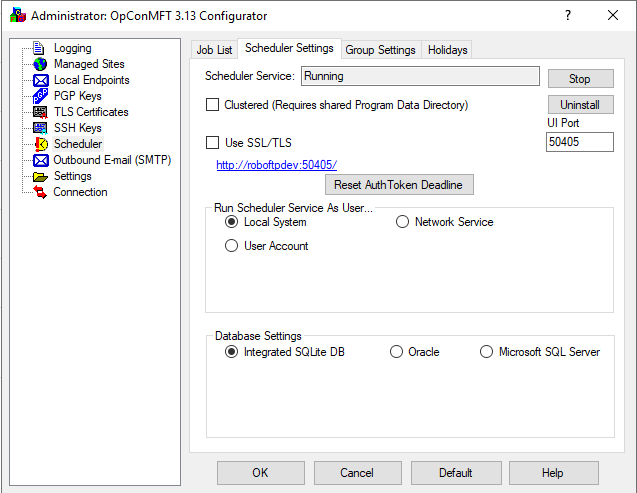
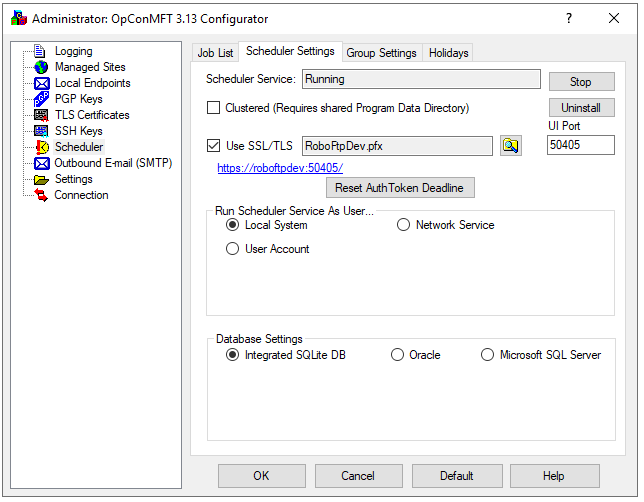
doc updates

Changed region(s): [[0.0, 0.0, 1.0, 1.0]]

diff --git a/docs/Installation.md b/docs/Installation.md
@@ -1,4 +1,10 @@
 # Installation
+
+>***Before starting an installation, an updated OpCon License key including an OpConMFT Agent type must be obtained. Failure to do this will result in a license 
+Violation when the defined OpCon MFT agent is activated in opCon and will result in OpCon termination if the activated OpConMFT Agent is not deactivated within
+the specified time.***
+
+
 The OpCon MFT environment consists of an OpCon MFT Agent and the SMAMftAgentProxy that provides the communication link between OpCon and the OpCon MFT Agent.
 
 The SMAMftAgentProxy is contained within the SMANetCom environment and is installed automatically when the core SMA OpCon component is installed. 
@@ -8,9 +14,13 @@ one to one relationship between an OpCon environment and an OpCon MFT Agent is d
 Part of the configuration process is to retrieve the token value from the OpCon MFT Agent and store this in the OpCon agent record. 
 
 ## OpCon MFT Agent Installation
-The agent installation consists of executing the installer program and answering a single license acceptance message.
-After the installation, a system restart is required.
+The OpCon MFT Agent software can be downloaded using the OpCon Web Installer. It is listed as SMA OpConMFT under the Agents section. The software currently
+only has a download option. Once down loaded, the installer can be started manually outside the OpCon Web Installer.
 
+The agent installation consists of executing the installer program and answering a single license acceptance message.
+After the installation, if a system restart is required, restart the system.
+
+### Retrieve the OpCon MFT Agent Port Number
 After the restart, the port number for communication with OpCon that was automatically configured during the installation process must be retrieved from the OpCon MFT Agent.
 
 Select the **OpConMFT n.nn** menu item and then the **OpConMFT n.nn Configurator** menu item.
@@ -19,14 +29,38 @@ This opens the Configurator Software.
 
 Select the **Scheduler** option from the tree view and then the **Scheduler Settings**. The port number will be displayed in the **UI Port** field.
 
+### Enable Use SSL/TLS
 The connection between OpCon and the OpCon MFT Agent requires a https connection instead of the default http connection. 
 On the **Scheduler Settings** screen, ensure that the **Use SSL/TLS** option is selected. 
 After this is selected, a certificate must be provided for the connection. If there is no a valid certificate to import, then either create the information
-to purchase a certificate or create a self-signed certificate (see **Using TLS with OpCon MFT** section of **encryption-definitions**). Once the certificate has created or imported, set the certificate as the default for the OpCon MFT Agent.  
+to purchase a certificate or create a self-signed certificate (see **Using TLS with OpCon MFT** section of **encryption-definitions**). 
+Once the certificate has created or imported, set the certificate as the default for the OpCon MFT Agent.  
+
+![OpCon MFT Agent Scheduler Settings Tab](../static/img/opcon-mft-agent-configurator-scheduler-settings.png)
+
+### Define Email SMTP Server Connection
+The OpCon MFT Agent can be configured to send notifications (emails). To enable notifications, a SMTP Server connection must be completed.
+
+Select the **OutBound Email (SMTP)** option from the tree view and then **Add** button.
+
+![OpCon MFT Agent Notifications Server](../static/img/opcon-mft-agent-configurator-notifications-settings.png)
+
+Set the required options to configure the connection to the SMTP service. The same SMTP service used for OpCon Notifications can be used for OpCon MFT Notifications.
+
+Field                                    | Description
+---------------------------------------- | -----------
+**Site Name**                            | Enter a name to define the SMTP connection.
+**Server URL / IP Address**              | Enter the address of the SMTP service.
+**Server Port**                          | Adjust the port number if required (default 25).
+**UserId / Password**                    | Enter credentials for the SMTP service.
+**No TLS / Explicit TLS / Implicit TLS** | Select the TLS option for the SMTP service.
+**From**                                 | Enter the name to be used as the sender of all notifications from the OpCon MFT Agent.
+**Send To**                              | Enter a recipient address that will be used when the **Test** button is selected. 
+
+Select the **Test** button to send a test message. During this process, if the connection fails, the software test various TLS and port options to obtain a valid connection. 
 
 Once these changes have been made, restart the OpConMFT Service.
 
-![OpCon MFT Agent Scheduler Settings Tab](../static/img/opcon-mft-agent-configurator-scheduler-settings.png)
 
 After the OpCon MFT agent is installed, a new token value is available for download for a short period of time. If the OpCon MFT OpCon Agent configuration is not completed within this specified time an error message will be displayed indicating that the token is not available. If this happens, then a new token must be generated using the OpCon MFT Agent software. This can be done by selecting the **Reset Auth Token Deadline** button on the **Scheduler Settings** tab of the **OpConMFT Configurator**. 
 

diff --git a/docs/task-definitions.md b/docs/task-definitions.md
@@ -136,7 +136,7 @@ The ***decompress*** step inflates compressed files from the current file set. A
 Field                      | Description
 -------------------------- | -----------
 **Password**               | An optional definition that defines a password that must be used to decompress the file.
-**Extract Filter**         | The compressed file could contain multiple files and it is therefore possible to only require specific files within the compressed file. It is possible to extract these specific files by defining a filter (i.e. \*.csv|\*.xls).
+**Extract Filter**         | The compressed file could contain multiple files and it is therefore possible to only require specific files within the compressed file. Use **\*** to extract all files or specific files by defining a file type using wild cards. Multiple types can be entered using the pipe (|) character as a separation character (i.e. \*.csv|\*.xls).
 
 #### Encryption
 The optional Encryption section defines the information for the ***encrypt*** or ***decrypt*** steps. 
